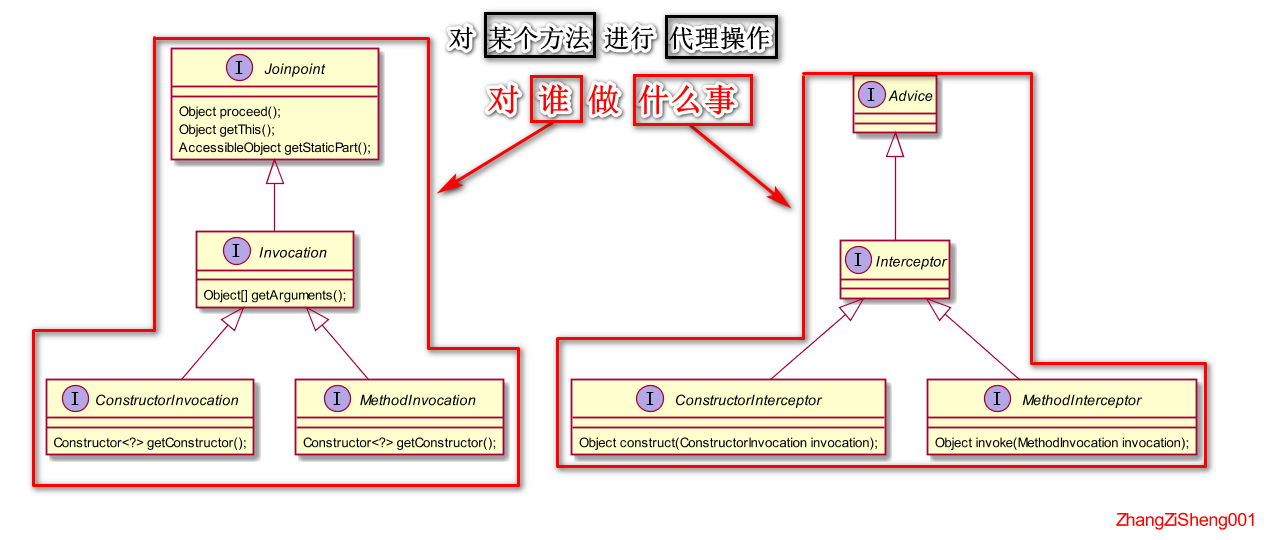
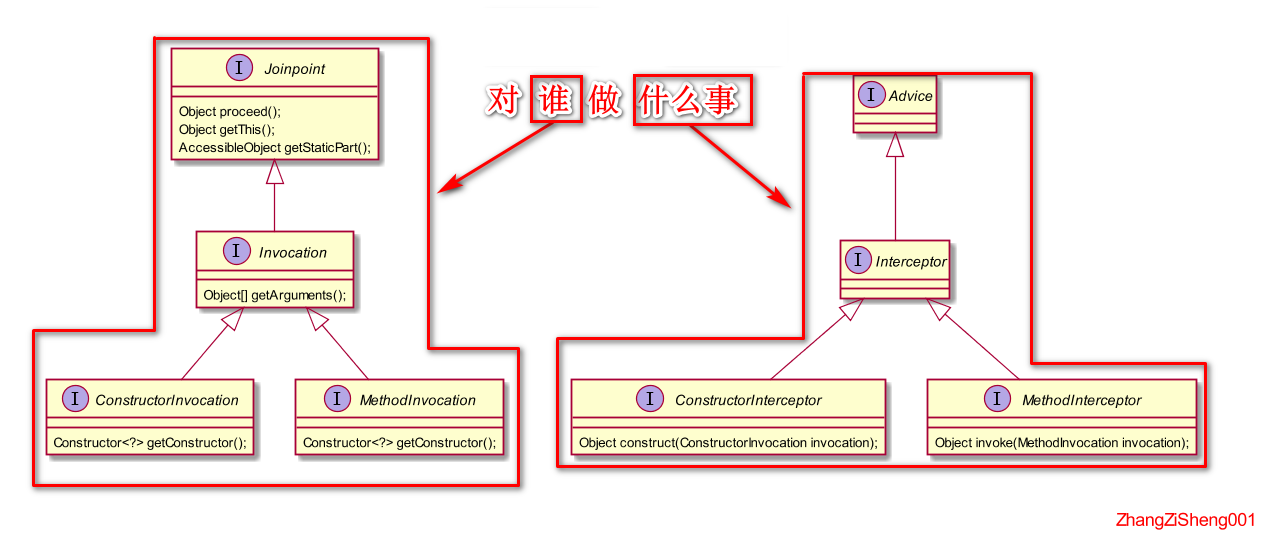
20210927优化2

Changed region(s): [[0.3381, 0.0, 0.6147, 0.1185]]

diff --git a/spring-aop/Spring源码系列(三)--spring-aop的基础组件、架构和使用.md b/spring-aop/Spring源码系列(三)--spring-aop的基础组件、架构和使用.md
@@ -1,8 +1,8 @@
 # 简介
 
-前面已经讲完 spring-bean( 详见[Spring](https://www.cnblogs.com/ZhangZiSheng001/category/1776792.html) )，这篇博客开始攻克 Spring 的另一个重要模块--spring-aop。
+前面已经讲完 spring-bean( 详见[Spring](https://www.cnblogs.com/ZhangZiSheng001/category/1776792.html) )，这篇博客开始攻克 Spring 的另一个核心模块--spring-aop。
 
-spring-aop 用于生成动态代理类（底层是使用 JDK 动态代理或 cglib 来生成代理类），搭配 spring-bean 一起使用，可以使 AOP 更加解耦、方便。在实际项目中，spring-aop 被广泛用来实现日志、权限、事务、异常等的统一管理。
+顾名思义，spring-aop 是用来做 AOP 开发的，搭配 spring-bean 一起使用的话，AOP 将更加解耦、方便。在实际项目中，spring-aop 被广泛用来实现日志、权限、事务、异常等的统一管理。
 
 我将通过两篇博客来详细介绍 spring-aop 的使用、源码等。这是第一篇博客，主要介绍 spring-aop 的组件、架构、使用等。
 
@@ -18,7 +18,7 @@ Spring：5.2.6.RELEASE
 
 # 几个重要的组件
 
-说到 spring-aop，我们经常会提到**`Pointcut`、`Joinpoint`、`Advice`、`Aspect`**等等概念，它们都是抽象出来的“标准”，有的来自 aopalliance，有的来自 AspectJ，也有的是 spring-aop 原创。
+说到 spring-aop，我们经常会提到**`Joinpoint`、`Advice`、`Pointcut`、`Aspect`、`Advisor`**等等概念，它们都是抽象出来的“标准”，有的来自 aopalliance，有的来自 AspectJ，也有的是 spring-aop 原创。
 
 它们是构成 spring-aop “设计图”的基础，理解它们非常难，一个原因是网上能讲清楚的不多，第二个原因是这些组件本身抽象得不够直观（spring 官网承认了这一点）。
 
@@ -43,19 +43,19 @@ Spring：5.2.6.RELEASE
                 MethodInvocation.class
 ```
 
-使用 UML 表示以上类的关系，如下。可以看到，这主要包含两个部分：`Joinpoint`和`Advice`（这是 AOP 最核心的两个概念）。完整的 aopalliance 包，除了 aop 和 intercept，还包括了 instrument 和 reflect，后面这两个部分 spring-aop 没有引入，这里就不说了。
+使用 UML 表示以上类的关系，如下。可以看到，这主要包含两个部分：**`Joinpoint`和`Advice`（这是 AOP 最核心的两个概念）**。完整的 aopalliance 包，除了 aop 和 intercept，还包括了 instrument 和 reflect，后面这两个部分 spring-aop 没有引入，这里就不说了。
 
-![AopAopallianceUML](https://img2020.cnblogs.com/blog/1731892/202009/1731892-20200928154513960-770091995.png)
+![AopAopallianceUML](https://img2020.cnblogs.com/blog/1731892/202109/1731892-20210927141031977-1366903158.png)
 
 1. **Joinpoint**
 
-**`Joinpoint`表示调用某个方法（构造方法或成员方法），或者操作某个成员属性的事件**。
+**`Joinpoint`表示对某个方法（构造方法或成员方法）或属性的调用**。
 
-例如，我调用了`user.save()` 方法，这个事件就属于一个`Joinpoint`。`Joinpoint`是一个“动态”的概念，`Field`、`Method`、或`Constructor`等对象是它的静态部分。
+例如，我调用了 user.save() 方法，这个调用动作就属于一个`Joinpoint`。`Joinpoint`是一个“动态”的概念，`Field`、`Method`、`Constructor`等对象是它的静态部分。
 
 如上图所示，**`Joinpoint`是`Advice`操作的对象**。
 
-在 spring-aop 中，主要使用`Joinpoint`的子接口--`MethodInvocation`，JDK 动态代理使用的`MethodInvocation`实现类为`ReflectiveMethodInvocation`，cglib 使用的是`MethodInvocation`实现类为`CglibMethodInvocation`。
+在 spring-aop 中，主要使用`Joinpoint`的子接口--`MethodInvocation`。
 
 2. **Advice**
 
@@ -65,25 +65,25 @@ Spring：5.2.6.RELEASE
 
 在 spring-aop 中，主要使用`Advice`的子接口--`MethodInterceptor`。
 
-为了更好地理解这两个概念，我再举一个例子：当我们对用户进行增删改查前，进行权限校验。其中，调用用户的新增方法的事件就是一个的`Joinpoint`，权限校验就是一个`Advice`，即对`Joinpoint`做`Advice`。
+为了更好地理解这两个概念，我再举一个例子：当我们对用户进行新增操作前，需要进行权限校验。其中，调用 user.save()  的动作就是一个的`Joinpoint`，权限校验就是一个`Advice`，即对`Joinpoint`（新增用户的动作）做`Advice`（权限校验）。
 
-**在 spring-aop 中，`Joinpoint`对象持有了一条`Advice chain`，调用`Joinpoint`的`proceed()`方法将采用责任链的形式依次执行**（注意，`Advice`的执行可以互相嵌套，不是单纯的先后顺序）。
+**在 spring-aop 中，`Joinpoint`对象持有了一条 Advice chain ，调用`Joinpoint`的`proceed()`方法将采用责任链的形式依次执行各个 Advice**（注意，`Advice`的执行可以互相嵌套，不是单纯的先后顺序）。cglib 和 JDK 动态代理的缺点就在于，它们没有所谓的 Advice chain，一个`Joinpoint`一般只能分配一个`Advice`，当需要使用多个`Advice`时，需要像套娃一样层层代理。
 
 ## 其他的几个概念
 
-在 spring-aop 中，还会使用到其他的概念，例如`Advice Filter`、`Advisor`、`Pointcut`、`Aspect`等。
+在 spring-aop 中，还会使用到其他的概念，例如`Advice Filter`、`Advisor`、`Pointcut`、`Aspect`等。这些概念的重要性不如`Joinpoint`、`Advice`，如果对深入了解 spring-aop 不感兴趣的话，可以不用了解。
 
-1. **`Advice Filter`**
+1. **Advice Filter**
 
-**`Advice Filter`一般和`Advice`绑定，它用来告诉我们，`Advice`是否作用于指定的`Joinpoint`**，如果 true，则将`Advice`加入到当前`Joinpoint`的`Advice chain`，如果为 false，则不加入。
+**Advice Filter 一般和`Advice`绑定，它用来告诉我们，`Advice`是否作用于指定的`Joinpoint`**，如果 true，则将`Advice`加入到当前`Joinpoint`的`Advice chain`，如果为 false，则不加入。
 
-在 spring-aop 中，常用的`Advice Filter`包括`ClassFilter`和`MethodMatcher`，前者过滤的是类，后者过滤的是方法。
+在 spring-aop 中，常用的 Advice Filter 包括`ClassFilter`和`MethodMatcher`，前者过滤的是类，后者过滤的是方法。
 
 2. **`Pointcut`**
 
-**`Pointcut`是 AspectJ 的组件，它一种 `Advice Filter`**。
+**`Pointcut`是 AspectJ 的组件，它是一种  Advice Filter**。
 
-在 spring-aop 中，`Pointcut`=`ClassFilter`+`MethodMatcher`。
+在 spring-aop 中，`Pointcut`=`ClassFilter`+`MethodMatcher`+。
 
 3. **`Advisor`**
 
@@ -128,9 +128,9 @@ spring-aop 之所以和 AspectJ 产生关联，主要是因为借鉴了 AspectJ 
 
 # 如何使用 spring-aop
 
-接下来展示的代码可能有的人看了会觉得奇怪，“怎么和我平时用 spring-aop 不一样呢？”。这里先说明一点，**因为本文讲的是 spring-aop，所以，我用的都是 spring-aop 的 API**，而实际项目中，由于 spring 封装了一层又一层，导致我们感知不到 spring-aop 的存在。
+接下来展示的代码可能有的人看了会觉得奇怪，怎么和我平时用 spring-aop 不一样呢？。这里先说明一点，**因为本文讲的是 spring-aop，所以，我用的都是 spring-aop 原生的 API**，而实际项目中，由于 spring 封装了一层又一层，导致我们感知不到 spring-aop 的存在。
 
-通常情况下，Spring 是通过向`BeanFactory`注册`BeanPostProcessor`（例如，`AbstractAdvisingBeanPostProcessor`）的方式对 bean 进行动态代理，原理并不复杂，相关内容可以通过 spring-bean 了解（ [Spring源码系列(二)--bean组件的源码分析](https://www.cnblogs.com/ZhangZiSheng001/p/13196228.html) ）。
+通常情况下，Spring 是通过向`BeanFactory`注册`BeanPostProcessor`（例如，`AbstractAdvisingBeanPostProcessor`）的方式对 bean 使用 spring-aop 的功能，原理并不复杂，相关内容可以通过 spring-bean 了解（ [Spring源码系列(二)--bean组件的源码分析](https://www.cnblogs.com/ZhangZiSheng001/p/13196228.html) ）。
 
 接下来让我们抛开这些“高级封装”，看看 spring-aop 的真面目。
 
@@ -138,7 +138,9 @@ spring-aop 之所以和 AspectJ 产生关联，主要是因为借鉴了 AspectJ 
 
 下面通过一个 UML 图来了解下 spring-aop 的结构，如下。
 
-![ProxyFactoryUML](https://img2020.cnblogs.com/blog/1731892/202009/1731892-20200915090711597-1505551851.png)
+![ProxyFactoryUML](https://img2020.cnblogs.com/blog/1731892/202109/1731892-20210927143035862-2039404617.png)
+
+**spring-aop 采用动态代理为目标类生成一个代理对象，Joinpoint 的组装和 advice chain 的执行都是在这个代理对象中完成，而不是通过层层代理的方式来实现**。
 
 spring-aop 为我们提供了三种代理工厂，其中`ProxyFactory`比较普通，`AspectJProxyFactory`支持 AspectJ 语法的代理工厂，`ProxyFactoryBean`可以给 Spring IoC 管理的 bean 进行代理。
 
@@ -302,6 +304,8 @@ public class UserServiceAspect {
 关于 spring-aop 的组件、架构、使用等内容，就介绍到这里，第二篇博客再分析具体源码。
 
 感谢阅读。以上内容如有错误，欢迎指正。 
+
+> 2021-09-27更改
 
 > 相关源码请移步：[ spring-aop]( https://github.com/ZhangZiSheng001/spring-projects/tree/master/spring-aop )
 

diff --git a/spring-aop/Spring源码系列(四)--spring-aop是如何设计的.md b/spring-aop/Spring源码系列(四)--spring-aop是如何设计的.md
@@ -1,6 +1,6 @@
 # 简介
 
-spring-aop 用于生成动态代理类（底层是使用 JDK 动态代理或 cglib 来生成代理类），搭配 spring-bean 一起使用，可以使 AOP 更加解耦、方便。在实际项目中，spring-aop 被广泛用来实现日志、权限、事务、异常等的统一管理。
+顾名思义，spring-aop 是用来做 AOP 开发的，搭配 spring-bean 一起使用的话，AOP 将更加解耦、方便。在实际项目中，spring-aop 被广泛用来实现日志、权限、事务、异常等的统一管理。
 
 上一篇博客（[Spring源码系列(三)--spring-aop的基础组件、架构和使用]( https://www.cnblogs.com/ZhangZiSheng001/p/13671149.html )）简单讲了 spring-aop 的基础组件、架构和使用方法，本文将开始研究 spring-aop 的源码，主要分成以下部分：
 
@@ -27,7 +27,7 @@ Spring：5.2.6.RELEASE
 
 # 几个重要的组件
 
-说到 spring-aop，我们经常会提到**`Pointcut`、`Joinpoint`、`Advice`、`Aspect`**等等概念，它们都是抽象出来的“标准”，有的来自 aopalliance，有的来自 AspectJ，也有的是 spring-aop 原创。
+说到 spring-aop，我们经常会提到**`Joinpoint`、`Advice`、`Pointcut`、`Aspect`、`Advisor`**等等概念，它们都是抽象出来的“标准”，有的来自 aopalliance，有的来自 AspectJ，也有的是 spring-aop 原创。
 
 它们是构成 spring-aop “设计图”的基础，理解它们非常难，一个原因是网上能讲清楚的不多，第二个原因是这些组件本身抽象得不够直观（spring 官网承认了这一点）。
 
@@ -52,19 +52,19 @@ Spring：5.2.6.RELEASE
                 MethodInvocation.class
 ```
 
-使用 UML 表示以上类的关系，如下。可以看到，这主要包含两个部分：`Joinpoint`和`Advice`（这是 AOP 最核心的两个概念）。完整的 aopalliance 包，除了 aop 和 intercept，还包括了 instrument 和 reflect，后面这两个部分 spring-aop 没有引入，这里就不说了。
+使用 UML 表示以上类的关系，如下。可以看到，这主要包含两个部分：**`Joinpoint`和`Advice`（这是 AOP 最核心的两个概念）**。完整的 aopalliance 包，除了 aop 和 intercept，还包括了 instrument 和 reflect，后面这两个部分 spring-aop 没有引入，这里就不说了。
 
-![AopAopallianceUML](https://img2020.cnblogs.com/blog/1731892/202009/1731892-20200928154513960-770091995.png)
+![AopAopallianceUML](https://img2020.cnblogs.com/blog/1731892/202109/1731892-20210927141031977-1366903158.png)
 
 1. **Joinpoint**
 
-**`Joinpoint`表示调用某个方法（构造方法或成员方法），或者操作某个成员属性的事件**。
+**`Joinpoint`表示对某个方法（构造方法或成员方法）或属性的调用**。
 
-例如，我调用了`user.save()` 方法，这个事件就属于一个`Joinpoint`。`Joinpoint`是一个“动态”的概念，`Field`、`Method`、或`Constructor`等对象是它的静态部分。
+例如，我调用了 user.save() 方法，这个调用动作就属于一个`Joinpoint`。`Joinpoint`是一个“动态”的概念，`Field`、`Method`、`Constructor`等对象是它的静态部分。
 
 如上图所示，**`Joinpoint`是`Advice`操作的对象**。
 
-在 spring-aop 中，主要使用`Joinpoint`的子接口--`MethodInvocation`，JDK 动态代理使用的`MethodInvocation`实现类为`ReflectiveMethodInvocation`，cglib 使用的是`MethodInvocation`实现类为`CglibMethodInvocation`。
+在 spring-aop 中，主要使用`Joinpoint`的子接口--`MethodInvocation`。
 
 2. **Advice**
 
@@ -74,25 +74,23 @@ Spring：5.2.6.RELEASE
 
 在 spring-aop 中，主要使用`Advice`的子接口--`MethodInterceptor`。
 
-为了更好地理解这两个概念，我再举一个例子：当我们对用户进行增删改查前，进行权限校验。其中，调用用户的新增方法的事件就是一个的`Joinpoint`，权限校验就是一个`Advice`，即对`Joinpoint`做`Advice`。
+为了更好地理解这两个概念，我再举一个例子：当我们对用户进行新增操作前，需要进行权限校验。其中，调用 user.save()  的动作就是一个的`Joinpoint`，权限校验就是一个`Advice`，即对`Joinpoint`（新增用户的动作）做`Advice`（权限校验）。
 
-**在 spring-aop 中，`Joinpoint`对象持有了一条`Advice chain`，调用`Joinpoint`的`proceed()`方法将采用责任链的形式依次执行**（注意，`Advice`的执行可以互相嵌套，不是单纯的先后顺序）。
+**在 spring-aop 中，`Joinpoint`对象持有了一条 Advice chain ，调用`Joinpoint`的`proceed()`方法将采用责任链的形式依次执行各个 Advice**（注意，`Advice`的执行可以互相嵌套，不是单纯的先后顺序）。cglib 和 JDK 动态代理的缺点就在于，它们没有所谓的 Advice chain，一个`Joinpoint`一般只能分配一个`Advice`，当需要使用多个`Advice`时，需要像套娃一样层层代理。
 
-## 其他的几个概念
+在 spring-aop 中，还会使用到其他的概念，例如`Advice Filter`、`Advisor`、`Pointcut`、`Aspect`等。这些概念的重要性不如`Joinpoint`、`Advice`，如果对深入了解 spring-aop 不感兴趣的话，可以不用了解。
 
-在 spring-aop 中，还会使用到其他的概念，例如`Advice Filter`、`Advisor`、`Pointcut`、`Aspect`等。
+1. **Advice Filter**
 
-1. **`Advice Filter`**
+**Advice Filter 一般和`Advice`绑定，它用来告诉我们，`Advice`是否作用于指定的`Joinpoint`**，如果 true，则将`Advice`加入到当前`Joinpoint`的`Advice chain`，如果为 false，则不加入。
 
-**`Advice Filter`一般和`Advice`绑定，它用来告诉我们，`Advice`是否作用于指定的`Joinpoint`**，如果 true，则将`Advice`加入到当前`Joinpoint`的`Advice chain`，如果为 false，则不加入。
-
-在 spring-aop 中，常用的`Advice Filter`包括`ClassFilter`和`MethodMatcher`，前者过滤的是类，后者过滤的是方法。
+在 spring-aop 中，常用的 Advice Filter 包括`ClassFilter`和`MethodMatcher`，前者过滤的是类，后者过滤的是方法。
 
 2. **`Pointcut`**
 
-**`Pointcut`是 AspectJ 的组件，它一种 `Advice Filter`**。
+**`Pointcut`是 AspectJ 的组件，它是一种  Advice Filter**。
 
-在 spring-aop 中，`Pointcut`=`ClassFilter`+`MethodMatcher`。
+在 spring-aop 中，`Pointcut`=`ClassFilter`+`MethodMatcher`+。
 
 3. **`Advisor`**
 
@@ -129,7 +127,7 @@ public class UserServiceAspect {
 }
 ```
 
-# spring-aop是如何设计的
+#  spring-aop是如何设计的
 
 了解了 spring-aop 的重要组件，接下来就可以构建它的设计视图。**spring-aop 的设计视图主要包括两个部分：生成代理类和代理方法的执行**。
 
@@ -137,20 +135,19 @@ public class UserServiceAspect {
 
 这里我画了一张 UML 图来简单说明。
 
-![ProxyFactoryUML](https://img2020.cnblogs.com/blog/1731892/202009/1731892-20200915090711597-1505551851.png)
+![ProxyFactoryUML](https://img2020.cnblogs.com/blog/1731892/202109/1731892-20210927143035862-2039404617.png)
 
-**`AdvisedSupport`用来告诉`AopProxy`如何生成代理对象**，它描述了两部分信息：
+**spring-aop 采用动态代理为目标类生成一个代理对象，Joinpoint 的组装和 advice chain 的执行都是在这个代理对象中完成，而不是通过层层代理的方式来实现**。
 
-1. 对谁生成代理对象？--`TargetSource`。`TargetSource`既可以返回单例对象，也可以返回多例对象，有点类似于我们常用的`DataSource`。
-2. 生成的代理对象持有的 Advisor List。前面提到过，当我们执行代理方法时，将会采用责任链的方式执行`Advice chain`，而`Advice chain`就是通过 Advisor List 过滤得到；
+`AdvisedSupport`里持有了一条 advice chain，严格来说应该是 advisor List。
 
-**`AopProxy`用来生成代理对象，spring-aop 提供了 JDK 动态代理和 cglib 动态代理两种`AopProxy`实现**。
+`AopProxy`用来生成代理对象，spring-aop 提供了 JDK 动态代理和 cglib 动态代理两种`AopProxy`实现。
 
 除此之外，spring-aop 提供了三种代理工厂供调用者使用，其中`ProxyFactory`比较普通，`AspectJProxyFactory`支持 AspectJ 语法的代理工厂，`ProxyFactoryBean`可以给 Spring IoC 管理的 bean 进行代理。上一篇博客已介绍过如何使用这三个代理工厂。
 
 ## 代理方法的执行
 
-这里使用 cglib 的代理类来简单说明代理方法的执行过程。关于 cglib 的内容可以参考： [源码详解系列(一)------cglib动态代理的使用和分析](https://www.cnblogs.com/ZhangZiSheng001/p/11917086.html) 
+这里使用 cglib 的代理类来简单说明代理方法的执行过程。关于 cglib 的内容可以参考： [源码详解系列(一)--cglib动态代理的使用和分析](https://www.cnblogs.com/ZhangZiSheng001/p/11917086.html) 
 
 ![ProxyInvokeUML](https://img2020.cnblogs.com/blog/1731892/202009/1731892-20200928155332644-2015180344.png)
 
@@ -159,6 +156,8 @@ public class UserServiceAspect {
 以上简单介绍了 spring-aop 的设计视图，有了这些，相信读者会更容易读懂具体的源码。
 
 感谢阅读。以上内容如有错误，欢迎指正。 
+
+> 2021-09-27更改
 
 > 相关源码请移步：[spring-aop]( https://github.com/ZhangZiSheng001/spring-projects/tree/master/spring-aop )
 
